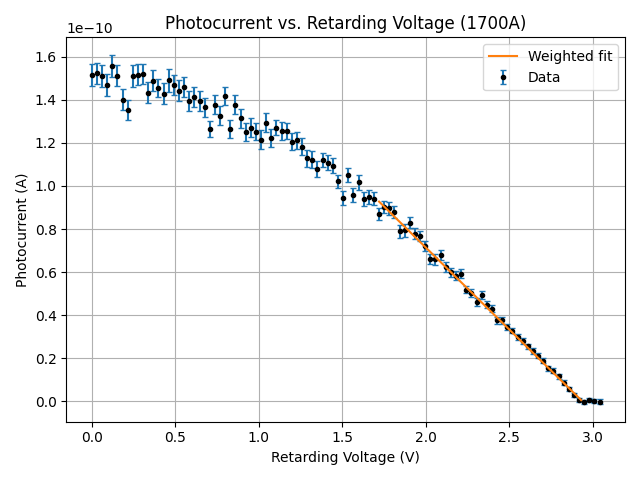
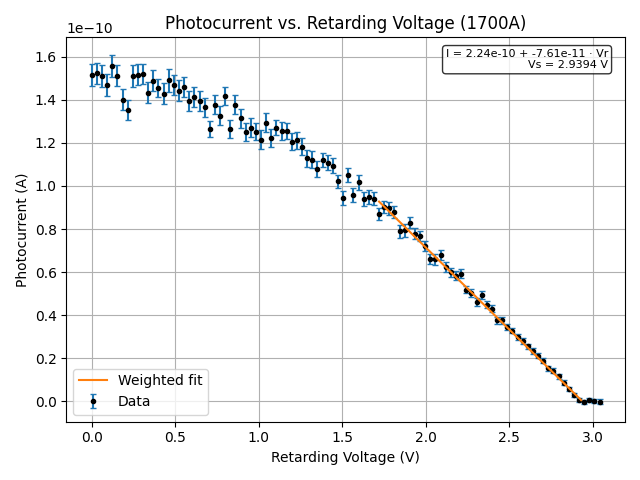
plot with equations

Changed region(s): [[0.6875, 0.0938, 0.9688, 0.1875], [0.1875, 0.7812, 0.3125, 0.875], [0.125, 0.7812, 0.1562, 0.875]]

diff --git a/Photoelectric Lab/report_plots.py b/Photoelectric Lab/report_plots.py
@@ -52,6 +52,11 @@ def plot_photocurrent_curve(wavelength_key, filename):
     )
     plt.plot(x_line, y_line, label="Weighted fit", zorder=5)
 
+    eq = f"I = {a:.2e} + {b:.2e} · Vr\nVs = {vs:.4f} V"
+    plt.text(0.97, 0.97, eq, transform=plt.gca().transAxes,
+             fontsize=8, verticalalignment='top', horizontalalignment='right',
+             bbox=dict(boxstyle='round', facecolor='white', alpha=0.8))
+
     plt.xlabel("Retarding Voltage (V)")
     plt.ylabel("Photocurrent (A)")
     plt.title(f"Photocurrent vs. Retarding Voltage ({wavelength_key})")
